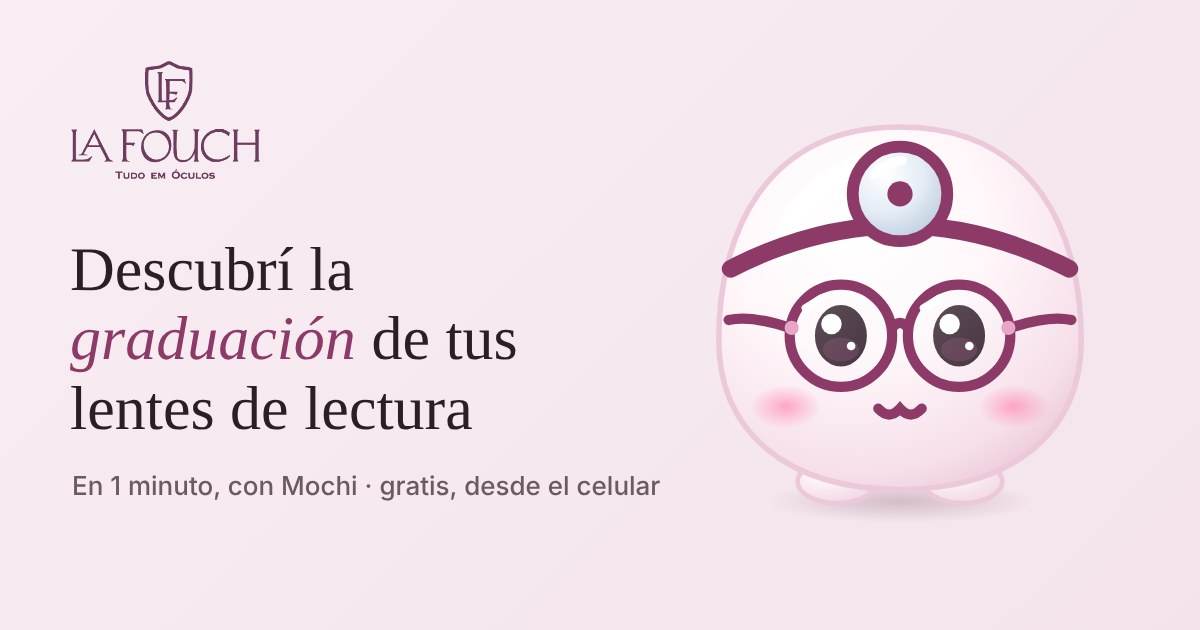
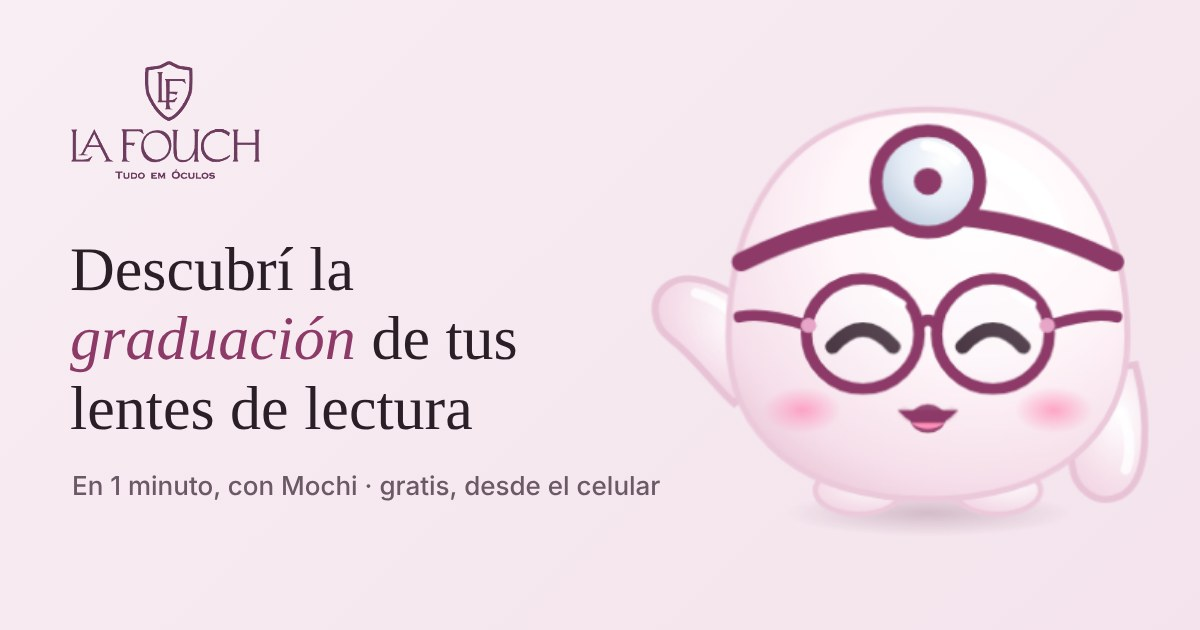
Memória: S168 v2
Claude-Session: https://claude.ai/code/session_01Vj5GPR2QjandaFr6ascRKC

diff --git a/work/s168/cap3.py b/work/s168/cap3.py
@@ -1,0 +1,18 @@
+from playwright.sync_api import sync_playwright
+with sync_playwright() as p:
+    b=p.chromium.launch();pg=b.new_page(viewport={'width':900,'height':1100},device_scale_factor=3)
+    pg.route('**/*',lambda r:r.continue_() if 'localhost' in r.request.url else r.abort())
+    pg.add_init_script("localStorage.setItem('lf_gzmudo','1')")
+    pg.goto('http://localhost:8160/');pg.wait_for_timeout(2500);pg.evaluate("window.__lfGzAbre()");pg.wait_for_timeout(9000)
+    pg.evaluate("(()=>{const m=__LFGZ.Z.m;try{m.vara(0)}catch(e){}try{m.paraGesto()}catch(e){}m.ocioso=false;try{m.acena(8)}catch(e){}})()");pg.wait_for_timeout(150)
+    for i in range(10):
+        r=pg.evaluate("""(()=>{const m=__LFGZ.Z.m.el;const keep=new Set();let e=m;while(e){keep.add(e);e=e.parentElement}
+          const st=document.getElementById('xx')||document.head.appendChild(Object.assign(document.createElement('style'),{id:'xx'}));
+          st.textContent='html,body,#gw,#gzstg{background:transparent!important}';
+          document.querySelectorAll('body *').forEach(x=>{if(keep.has(x)||m.contains(x))return;if([...keep].some(k=>x.contains(k)))return;x.style.visibility='hidden'});
+          document.querySelectorAll('body *').forEach(x=>{if(keep.has(x))x.style.visibility=''});
+          const R=m.getBoundingClientRect();return [R.left,R.top,R.width,R.height]})()""")
+        x,y,w,h=r;pad=w*.45
+        pg.wait_for_timeout(180)
+        pg.screenshot(path=f'n{i}.png',omit_background=True,clip={'x':max(0,x-pad),'y':max(0,y-pad*.6),'width':w+2*pad,'height':h+pad*1.2})
+    b.close()

diff --git a/work/s168/cap2.py b/work/s168/cap2.py
@@ -1,0 +1,17 @@
+from playwright.sync_api import sync_playwright
+with sync_playwright() as p:
+    b=p.chromium.launch();pg=b.new_page(viewport={'width':900,'height':1100},device_scale_factor=3)
+    pg.route('**/*',lambda r:r.continue_() if 'localhost' in r.request.url else r.abort())
+    pg.add_init_script("localStorage.setItem('lf_gzmudo','1')")
+    pg.goto('http://localhost:8160/');pg.wait_for_timeout(2500);pg.evaluate("window.__lfGzAbre()");pg.wait_for_timeout(9000)
+    for i in range(8):
+        r=pg.evaluate("""(()=>{const m=__LFGZ.Z.m.el;const keep=new Set();let e=m;while(e){keep.add(e);e=e.parentElement}
+          const st=document.getElementById('xx')||document.head.appendChild(Object.assign(document.createElement('style'),{id:'xx'}));
+          st.textContent='html,body,#gw,#gzstg{background:transparent!important}';
+          document.querySelectorAll('body *').forEach(x=>{if(keep.has(x)||m.contains(x))return;if([...keep].some(k=>x.contains(k)))return;x.style.visibility='hidden'});
+          document.querySelectorAll('body *').forEach(x=>{if(keep.has(x))x.style.visibility=''});
+          const R=m.getBoundingClientRect();return [R.left,R.top,R.width,R.height]})()""")
+        x,y,w,h=r;pad=w*.45
+        pg.wait_for_timeout(600)
+        pg.screenshot(path=f'n{i}.png',omit_background=True,clip={'x':max(0,x-pad),'y':max(0,y-pad*.6),'width':w+2*pad,'height':h+pad*1.2})
+    b.close()

diff --git a/work/s168/og.py b/work/s168/og.py
@@ -12,7 +12,7 @@ with sync_playwright() as p:
         <img src="http://localhost:8160/og_logo.png" style="position:absolute;left:60px;top:55px;width:215px">
         <div style="position:absolute;left:70px;top:235px;width:560px;font-size:62px;line-height:1.12;color:#2a1f27">'''+h.replace('<em>','<em style="color:#8d3a69">')+'''</div>
         <div style="position:absolute;left:72px;top:470px;font:500 26px Inter,system-ui,sans-serif;color:#6b5a66">'''+s+'''</div>
-        <div id="m" style="position:absolute;right:40px;top:40px;width:520px;height:560px">'''+svg+'''</div></div></body></html>''')
+        <div id="m" style="position:absolute;right:50px;top:70px;width:500px;height:500px"><img src="http://localhost:8160/og_mochi.png" style="width:100%;height:100%;object-fit:contain"></div></div></body></html>''')
         pg.evaluate("(()=>{const s=document.querySelector('#m svg');if(s){s.setAttribute('width','100%');s.setAttribute('height','100%')}})()")
         pg.wait_for_timeout(500);pg.screenshot(path=f'og_mochi_{lg}.jpg',type='jpeg',quality=88)
     b.close()

diff --git a/work/s168/cap.py b/work/s168/cap.py
@@ -1,0 +1,11 @@
+from playwright.sync_api import sync_playwright
+with sync_playwright() as p:
+    b=p.chromium.launch();pg=b.new_page(viewport={'width':900,'height':1100},device_scale_factor=3)
+    pg.route('**/*',lambda r:r.continue_() if 'localhost' in r.request.url else r.abort())
+    pg.add_init_script("localStorage.setItem('lf_gzmudo','1')")
+    pg.goto('http://localhost:8160/');pg.wait_for_timeout(2500);pg.evaluate("window.__lfGzAbre()");pg.wait_for_timeout(6000)
+    for i in range(6):
+        pg.evaluate("(()=>{const m=__LFGZ.Z.m;document.getElementById('gw').style.background='transparent';document.body.style.background='transparent';document.documentElement.style.background='transparent';[...document.querySelectorAll('#gw > *:not(#gzstg), #gzstg > *')].forEach(e=>{if(!e.contains(m.el))e.style.visibility='hidden'});m.el.style.visibility='visible'})()")
+        pg.locator('#gw').evaluate("e=>0");pg.wait_for_timeout(700)
+        el=pg.evaluate_handle("__LFGZ.Z.m.el");el.as_element().screenshot(path=f'm{i}.png',omit_background=True)
+    b.close()

diff --git a/docs/MEMORIA-PROJETO.md b/docs/MEMORIA-PROJETO.md
@@ -1732,3 +1732,4 @@ Decisões do dono sobre a tela Venda confirmada (esboço "venda_confirmada_compr
 - 11/11 11:15 Removidas media/voz/ouvir-es.html e ouvir-novas.html (dono). ouvir.html (PT) continua.
 - 11/11 11:15 Removida também media/voz/ouvir.html (PT).
 - 11/11 11:16 DONO: prévia do WhatsApp na versão Mochi. ESBOÇO S168 (work/s168/og_mochi_pt/es.jpg, 1200×630: logo, 'Descubra o grau do seu óculos de leitura' / 'Descubrí la graduación…', 'Em 1 minuto, com o Mochi · grátis, pelo celular', Mochi grande à direita). Perguntado: só nos links do teste (descubra-o-grau / descubri-tu-graduacion) ou também no lafouch.com. Aguardando.
+- 11/11 11:17 DONO: faltavam os braços do Mochi na prévia → S168 v2: Mochi capturado da consulta acenando (olhos fechados sorrindo, 2 braços). Aguardando aprovação e onde usar.
